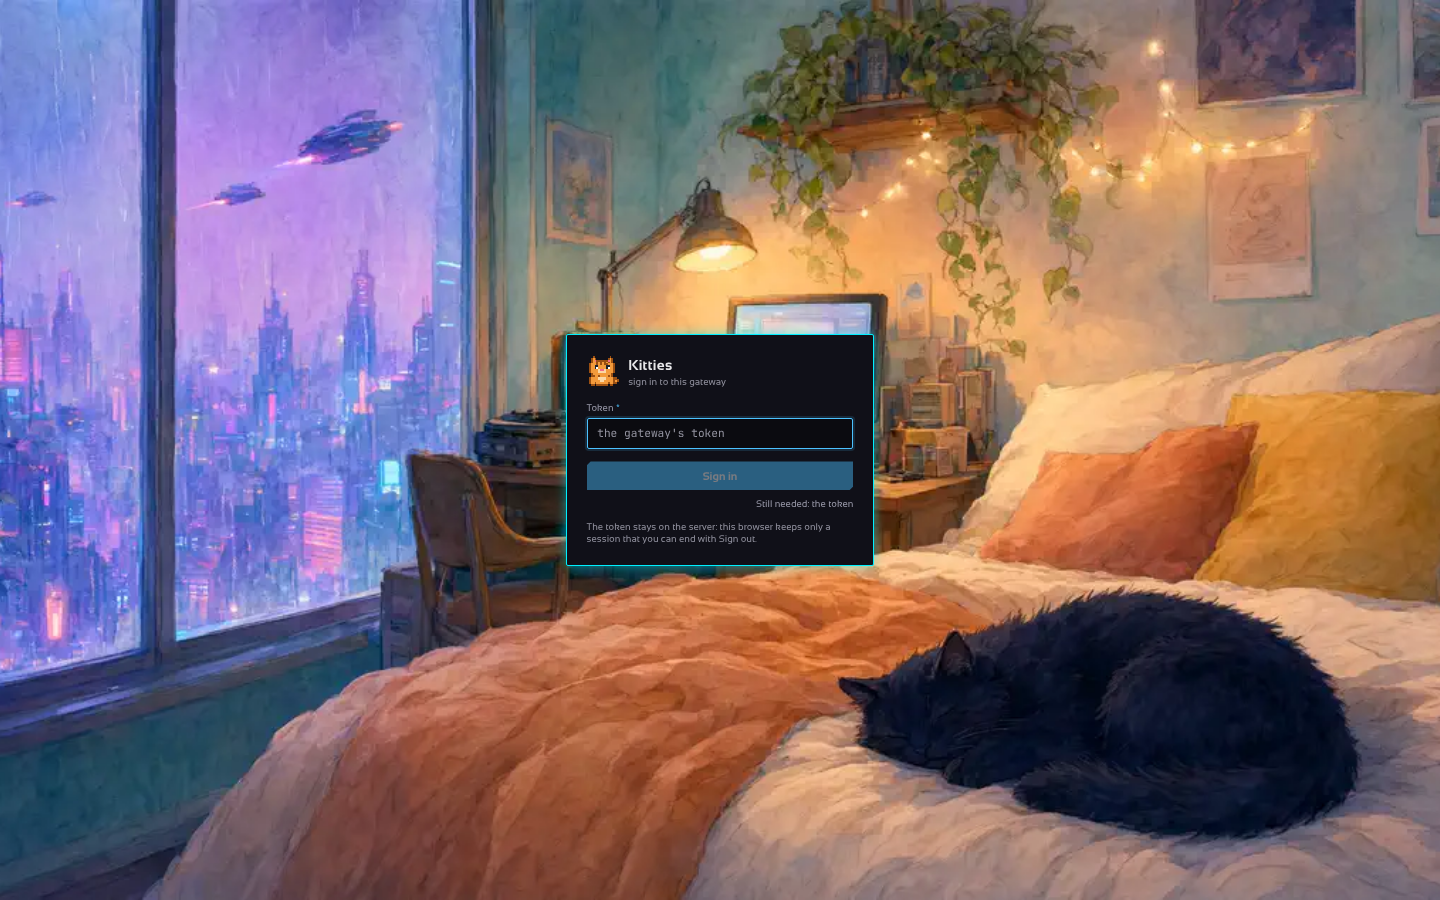
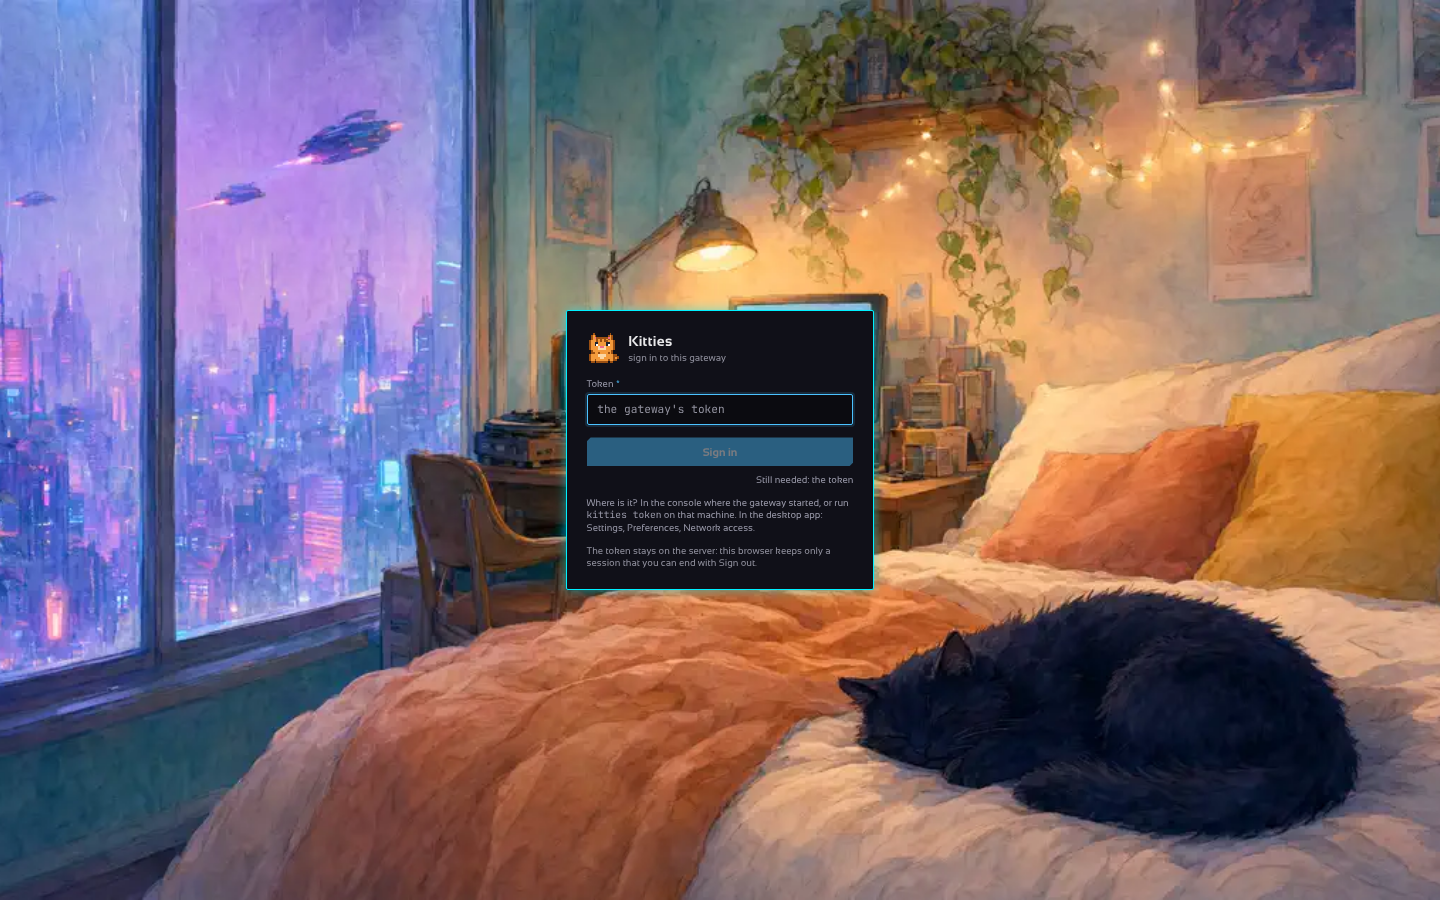
feat(app): say where the token is and let the app open Kitties in a browser
The sign-in page says where the token is (the console that started the
gateway, `kitties token`, or the desktop app). The desktop app gets "Use it
from a browser" in Settings, Preferences, Network access: the address, an
open button and the token, hidden until shown, with copy. A page opened in
a browser never shows it.

Claude-Session: https://claude.ai/code/session_017Z7sUZ68w7GjRSwa2UaKM7

Changed region(s): [[0.375, 0.3111, 0.625, 0.6844]]

diff --git a/desktop/frontend/src/Exposure.tsx b/desktop/frontend/src/Exposure.tsx
@@ -1,6 +1,6 @@
 import { useEffect, useState } from "preact/hooks";
 import type { Exposure as ExposureInfo, ExposureMode } from "./api";
-import { api, errText } from "./api";
+import { api, errText, inWails, openExternal } from "./api";
 import { ask } from "./Confirm";
 import { t } from "./i18n";
 
@@ -185,6 +185,70 @@ export default function Exposure() {
           {err}
         </p>
       )}
+      {inWails() && (
+        <InBrowser
+          addr={cur.mode === "lan" && cur.lan_ip ? `${cur.lan_ip}:${port}` : `127.0.0.1:${port}`}
+        />
+      )}
+    </div>
+  );
+}
+
+// InBrowser is how the person who runs the app uses Kitties from a browser too: the same page,
+// at the gateway's address, signed in with its token. Only the app shows the token (it runs on
+// the machine the gateway runs on); a browser never gets it from the gateway.
+function InBrowser({ addr }: { addr: string }) {
+  const [token, setToken] = useState("");
+  const [shown, setShown] = useState(false);
+  const [copied, setCopied] = useState(false);
+  useEffect(() => {
+    window.go?.main?.App?.Gateway()
+      .then((c) => setToken(c.token))
+      .catch(() => setToken(""));
+  }, []);
+  const url = `http://${addr}`;
+  const copy = async () => {
+    try {
+      await navigator.clipboard.writeText(token);
+      setCopied(true);
+      setTimeout(() => setCopied(false), 2000);
+    } catch {
+      setShown(true);
+    }
+  };
+  return (
+    <div class="callout mt-4" data-testid="in-browser">
+      <div class="font-semibold text-sm">{t("Use it from a browser")}</div>
+      <p class="text-xs text-[var(--t3)] mt-1">
+        {t("The same page as this app. Open it and sign in with the token.")}
+      </p>
+      <div class="flex flex-wrap items-center gap-2 mt-2">
+        <code class="font-mono text-xs">{url}</code>
+        <button
+          class="btn-ghost px-2 py-1 text-xs"
+          onClick={() => openExternal(url)}
+          data-testid="in-browser-open"
+        >
+          {t("Open in the browser")}
+        </button>
+      </div>
+      {token && (
+        <div class="flex flex-wrap items-center gap-2 mt-2">
+          <span class="text-xs text-[var(--t3)]">{t("Token")}:</span>
+          <code class="font-mono text-xs" data-testid="in-browser-token">
+            {shown ? token : "••••••••••••••••"}
+          </code>
+          <button class="btn-ghost px-2 py-1 text-xs" onClick={() => setShown(!shown)}>
+            {shown ? t("Hide") : t("Show")}
+          </button>
+          <button class="btn-ghost px-2 py-1 text-xs" onClick={copy} data-testid="in-browser-copy">
+            {copied ? t("Copied") : t("Copy")}
+          </button>
+        </div>
+      )}
+      <p class="text-xs text-[var(--t4)] mt-2">
+        {t("Keep the token to yourself: it is the only password of the page.")}
+      </p>
     </div>
   );
 }

diff --git a/desktop/frontend/src/i18n/es/settings.ts b/desktop/frontend/src/i18n/es/settings.ts
@@ -408,6 +408,14 @@ const dict: Dictionary = {
   "{kitty} answers on WhatsApp; each number has its own chat here.":
     "{kitty} responde en WhatsApp; cada número tiene su propio chat aquí.",
   "{n} messages from other numbers were ignored.": "Se ignoraron {n} mensajes de otros números.",
+  "Use it from a browser": "Úsalo desde un navegador",
+  "The same page as this app. Open it and sign in with the token.":
+    "La misma página que esta app. Ábrela e inicia sesión con el token.",
+  "Open in the browser": "Abrir en el navegador",
+  Show: "Mostrar",
+  Hide: "Ocultar",
+  "Keep the token to yourself: it is the only password of the page.":
+    "Guarda el token para ti: es la única contraseña de la página.",
 };
 
 export default dict;

diff --git a/desktop/frontend/src/Login.tsx b/desktop/frontend/src/Login.tsx
@@ -65,6 +65,11 @@ export default function Login({ onDone }: { onDone: () => void }) {
           {busy ? t("Checking…") : t("Sign in")}
         </button>
         <Missing items={[!token.trim() && t("the token")]} />
+        <p class="text-xs text-[var(--t3)] mt-3" data-testid="login-where">
+          {t("Where is it? In the console where the gateway started, or run")}{" "}
+          <code class="font-mono">kitties token</code>{" "}
+          {t("on that machine. In the desktop app: Settings, Preferences, Network access.")}
+        </p>
         <p class="text-xs text-[var(--t4)] mt-3">
           {t(
             "The token stays on the server: this browser keeps only a session that you can end with Sign out.",

diff --git a/desktop/frontend/e2e/screens.spec.ts b/desktop/frontend/e2e/screens.spec.ts
@@ -2164,6 +2164,8 @@ test("Settings: the gateway is exposed local, LAN or WAN, WAN after accepting th
   await expect(box).toContainText("127.0.0.1:7488");
   await expect(box.getByTestId("exposure-lan")).toContainText("192.168.1.20:7488");
   await expect(box.getByTestId("exposure-apply")).toBeDisabled();
+  // The token is shown only by the desktop app, never by a page a browser opened.
+  await expect(box.getByTestId("in-browser")).toHaveCount(0);
   // WAN warns and cannot be applied until the risk is accepted.
   await box.getByTestId("exposure-wan").click();
   await expect(box.getByTestId("exposure-warning")).toContainText("every interface");

diff --git a/desktop/frontend/e2e/login.spec.ts b/desktop/frontend/e2e/login.spec.ts
@@ -12,6 +12,8 @@ test("a gateway on a network asks for the token, keeps a session, and signs out"
   await page.goto(`${LOGIN_PAGE}/?theme=dark&motion=off`);
   const login = page.getByTestId("login");
   await expect(login).toBeVisible();
+  // It says where the token is: the console that started the gateway, or `kitties token`.
+  await expect(login.getByTestId("login-where")).toContainText("kitties token");
   await page.evaluate(() => document.fonts.ready);
   await page.screenshot({ path: path.join(SHOTS, "30-sign-in.png"), animations: "disabled" });
 

diff --git a/desktop/frontend/src/i18n/es/shell.ts b/desktop/frontend/src/i18n/es/shell.ts
@@ -188,6 +188,10 @@ const dict: Dictionary = {
   "found on this machine when empty": "si lo dejas vacío, se busca en esta máquina",
   Connect: "Conectar",
   Gateway: "Gateway",
+  "Where is it? In the console where the gateway started, or run":
+    "¿Dónde está? En la consola donde arrancó el gateway, o ejecuta",
+  "on that machine. In the desktop app: Settings, Preferences, Network access.":
+    "en esa máquina. En la app de escritorio: Ajustes, Preferencias, Acceso de red.",
 };
 
 export default dict;
